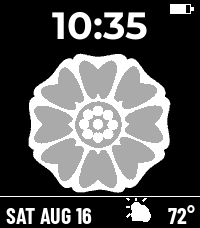
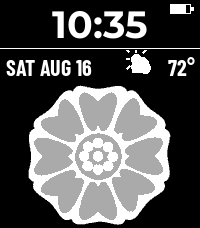
Move the date and weather into the header too
Putting only the time above the flower fixed the time and handed the same
problem to everything else: a timeline peek covers the bottom band for as
long as it is up, and the strip down there is the day, date and weather.

So the header now carries all of it -- time, a hairline, then the day,
date and weather in one row -- and the flower fills everything below.
The flower is what the peek covers instead, which costs nothing: it is
the same flower it was a second ago, and half of it still reads as the
tile.

The status icons already had the room. The battery keeps the right
corner and bluetooth the left, with the centred time 18px clear of each
at its widest, so the info row is the full width the strip used to be and
the date has the same 116px it always had.

Header and art fill the 228 exactly, 82 + 146, so the header cannot grow
without regenerating the art shorter. tools/mockup.py checks that, plus
the info row's end against the top of the art.

Screenshots in screenshots/ are the emulator with
`pebble emu-set-timeline-quick-view on`: before-quickview shows the old
layout with the time cut in half, header-quickview shows the peek landing
on the flower with everything else still readable.

Claude-Session: https://claude.ai/code/session_01X5gF5P6zNmFWki7CSijybw

diff --git a/src/c/lotus.c b/src/c/lotus.c
@@ -4,10 +4,10 @@
 
 // White Lotus watchface for emery (Pebble Time 2, 200x228).
 //
-// The whole face is one layer with a single update proc, in three bands: the
-// time across the top, the tile's flower under it as a bitmap, and a strip
-// across the bottom carrying the day, date and weather. Everything is drawn
-// from cached strings so the update proc never formats anything itself.
+// The whole face is one layer with a single update proc, in two blocks: a
+// header carrying the time, the day, the date, the weather and the status
+// icons, and the tile's flower under it as a bitmap. Everything is drawn from
+// cached strings so the update proc never formats anything itself.
 
 // ---------------------------------------------------------------------------
 // LAYOUT -- keep in sync with tools/build_assets.py and tools/mockup.py
@@ -16,43 +16,51 @@
 // Only ART_H matters here: the bitmap is that tall and gets placed at ART_TOP.
 #define ART_H 146
 
-// The time is above the flower, not on it and not below it.
+// Every readable thing is in a header above the flower.
 //
-// Not on it, because the tile's centre is a seed pod of small dots -- the thing
-// that identifies it as the White Lotus tile at all -- so the time there would
-// cover the one part of the artwork worth keeping. Off the flower, the time gets
-// the full screen width instead of a chord across a medallion, which is why it
-// can be this large.
+// A timeline peek slides up from the bottom of the screen and holds a band of it
+// for as long as it is up. Whatever sits down there is hidden for that whole
+// time, so the question is what the face can afford to lose. Not the time, and
+// not the date or the weather either -- they are the reason to look at a
+// watchface at all. The flower can: it is the same flower it was a second ago,
+// and half of it still reads as the tile.
 //
-// Above rather than below, because a timeline peek slides up from the bottom of
-// the screen and covers a band of it for as long as it is up. Whatever sits down
-// there is the thing that gets hidden, and the time is the one item on this face
-// that has to be readable at a glance without dismissing anything first. The
-// date and weather take the hit instead.
+// The time is off the flower rather than on it for a separate reason. The tile's
+// centre is a seed pod of small dots -- the thing that identifies it as the
+// White Lotus tile at all -- so the time there would cover the one part of the
+// artwork worth keeping. Off it, the time gets the full screen width instead of
+// a chord across a medallion, which is why it can be this large.
 #define TIME_LEFT 0
 #define TIME_WIDTH 200
 #define TIME_TOP 0
-#define TIME_HEIGHT 50
+#define TIME_HEIGHT 48
 
-// What is left between the time and the strip's rule is exactly the bitmap:
-// 50 + 146 = 196 = PANEL_TOP. The three bands fill the screen with nothing to
-// spare, so moving any one of them means moving another.
-#define ART_TOP TIME_HEIGHT
+// A hairline parts the time from the row under it. There is no fill behind
+// either: the window's black is already the black the artwork's own ground is
+// drawn in, so there is no seam to hide, and a slab of colour under a
+// black-and-white flower would be the only loud thing on the screen.
+#define RULE_TOP 48
+#define RULE_H 1
+#define RULE_COLOR GColorWhite
 
-// The info strip.
-#define PANEL_TOP 196
-#define PANEL_RULE 1
-#define INFO_TOP 200
+// The day, date and weather, in one row under the rule. The icon rides 2px
+// higher than the text so their optical centres line up.
+#define ICON_TOP 50
+#define INFO_TOP 52
 #define INFO_HEIGHT 26
 #define EDGE_PAD 6
+
+// The flower gets whatever the header does not, and ART_H is fixed, so this is
+// forced: 82 + 146 = 228, the whole screen, with nothing spare in either
+// direction. Growing the header means regenerating the art shorter.
+#define ART_TOP 82
 // Frame size in resources/images/weather_icons.png. ICON_W must stay a
 // multiple of 8 so the sub-bitmap lands on a byte boundary.
 #define ICON_W 32
 #define ICON_H 28
 #define ICON_GAP 2
-#define ICON_TOP 198
 // Width reserved for the temperature, enough for "100°". What is left of the
-// strip after the icon and this goes to the date, which is why the info font is
+// row after the icon and this goes to the date, which is why the info font is
 // condensed. tools/mockup.py prints both.
 #define INFO_TEMP_W 36
 
@@ -62,12 +70,7 @@
 #define BATT_TOP 4
 #define BT_W 12
 
-// The tile is black and white, so the whole face is. The strip has no fill of
-// its own -- a hairline rule is enough to part the date from the time, and a
-// slab of colour under a black-and-white flower would be the only loud thing on
-// the screen.
-#define PANEL_BG GColorBlack
-#define PANEL_RULE_COLOR GColorWhite
+// The tile is black and white, so the whole face is.
 #define INFO_COLOR GColorWhite
 #define TIME_COLOR GColorWhite
 #define STATUS_COLOR GColorWhite
@@ -141,10 +144,9 @@ static void prv_set_weather_icon(int index) {
   }
 }
 
-// The status icons share the top band with the time: bluetooth in the left
-// corner, battery in the right, the time centred between them. At its widest --
-// "23:58" -- the time is 103px of the 200, so there is room on both sides;
-// tools/mockup.py checks both gaps.
+// The status icons take the two top corners, with the time centred between them.
+// At its widest -- "23:58" -- the time is 103px of the 200, so there is room on
+// both sides; tools/mockup.py checks both gaps.
 static void prv_draw_battery(GContext *ctx, GRect bounds) {
   const int x = bounds.size.w - BATT_RIGHT_PAD - BATT_W - 3;  // 3px for the nub
 
@@ -190,10 +192,10 @@ static void prv_draw_bluetooth(GContext *ctx, GRect bounds) {
 static void prv_canvas_update(Layer *layer, GContext *ctx) {
   const GRect bounds = layer_get_bounds(layer);
 
-  // The flower. The bitmap is only the ART_H band under the time; the window's
-  // black background carries the rest, which is the same black the artwork's own
-  // ground is drawn in, so there is no seam to hide -- including the band the
-  // time is drawn into, which is why that band needs no fill of its own.
+  // The flower. The bitmap is only the ART_H band below the header; the window's
+  // black background carries the header, which is the same black the artwork's
+  // own ground is drawn in, so there is no seam to hide and the header needs no
+  // fill of its own.
   if (s_tile) {
     graphics_context_set_compositing_mode(ctx, GCompOpAssign);
     graphics_draw_bitmap_in_rect(ctx, s_tile, GRect(0, ART_TOP, bounds.size.w, ART_H));
@@ -202,12 +204,8 @@ static void prv_canvas_update(Layer *layer, GContext *ctx) {
   prv_draw_battery(ctx, bounds);
   prv_draw_bluetooth(ctx, bounds);
 
-  // Info strip.
-  graphics_context_set_fill_color(ctx, PANEL_BG);
-  graphics_fill_rect(ctx, GRect(0, PANEL_TOP, bounds.size.w, bounds.size.h - PANEL_TOP), 0,
-                     GCornerNone);
-  graphics_context_set_fill_color(ctx, PANEL_RULE_COLOR);
-  graphics_fill_rect(ctx, GRect(0, PANEL_TOP, bounds.size.w, PANEL_RULE), 0, GCornerNone);
+  graphics_context_set_fill_color(ctx, RULE_COLOR);
+  graphics_fill_rect(ctx, GRect(0, RULE_TOP, bounds.size.w, RULE_H), 0, GCornerNone);
 
   graphics_context_set_text_color(ctx, TIME_COLOR);
   graphics_draw_text(ctx, s_time_text, s_time_font,

diff --git a/tools/mockup.py b/tools/mockup.py
@@ -8,10 +8,10 @@ the places where the layout can silently overflow:
   * the time against its band. It has the full screen width now that it sits
     off the flower rather than inside the tile's seed pod, so the binding
     constraint is the band's height, not its width.
-  * the time against the status icons, which share the top band with it now
-    that the time is up there.
-  * the date against what the strip leaves it once the weather has taken the
+  * the time against the status icons, which share the top row with it.
+  * the date against what the info row leaves it once the weather has taken the
     right-hand end.
+  * the header against the flower, which has to fit in what is left of the 228.
 
 Each is reported with its slack, and the script exits non-zero if any has run
 out -- so this is worth running after any change to a font size, to ART_H, or to
@@ -35,14 +35,15 @@ FONTS = os.path.join(ROOT, "resources", "fonts")
 SCREEN_W, SCREEN_H = 200, 228
 TIME_SIZE = 38
 TIME_TOP = 0
-TIME_HEIGHT = 50
-ART_TOP = TIME_HEIGHT
+TIME_HEIGHT = 48
+RULE_TOP = 48
+RULE_H = 1
 INFO_SIZE = 22
-PANEL_TOP = 196
-PANEL_RULE = 1
-INFO_TOP = 200
+INFO_TOP = 52
+INFO_HEIGHT = 26
+ART_TOP = 82
 EDGE_PAD = 6
-ICON_W, ICON_H, ICON_GAP, ICON_TOP = 32, 28, 2, 198
+ICON_W, ICON_H, ICON_GAP, ICON_TOP = 32, 28, 2, 50
 INFO_TEMP_W = 36
 BATT_W, BATT_H, BATT_RIGHT_PAD, BATT_TOP, BT_W = 21, 10, 6, 4, 12
 
@@ -68,7 +69,7 @@ def draw_face(time_text, date_text, temp_text, icon_index):
     face.paste(ba.tile(), (0, ART_TOP))
     d = ImageDraw.Draw(face)
 
-    d.rectangle([0, PANEL_TOP, SCREEN_W, PANEL_TOP + PANEL_RULE - 1], fill=WHITE)
+    d.rectangle([0, RULE_TOP, SCREEN_W, RULE_TOP + RULE_H - 1], fill=WHITE)
 
     # The battery, because it is the thing the time is now closest to.
     bx = SCREEN_W - BATT_RIGHT_PAD - BATT_W - 3
@@ -120,18 +121,24 @@ def check():
         if slack < 0:
             ok = False
 
-    # The three bands fill the screen exactly: the flower has to start where the
-    # time band ends and stop before the strip's rule.
-    print("band  time %d..%d  art %d..%d  strip at %d  slack %+3d"
-          % (TIME_TOP, TIME_TOP + TIME_HEIGHT, ART_TOP, ART_TOP + ba.ART_H, PANEL_TOP,
-             PANEL_TOP - ART_TOP - ba.ART_H))
-    if TIME_TOP + TIME_HEIGHT > ART_TOP or ART_TOP + ba.ART_H > PANEL_TOP:
+    # The header and the flower fill the screen exactly: the info row has to end
+    # before the art starts, and the art has to end before the screen does.
+    info_bottom = max(INFO_TOP + INFO_HEIGHT, ICON_TOP + ICON_H)
+    print("head  time %d..%d  rule %d  info %d..%d  art at %d  slack %+3d"
+          % (TIME_TOP, TIME_TOP + TIME_HEIGHT, RULE_TOP, INFO_TOP, info_bottom, ART_TOP,
+             ART_TOP - info_bottom))
+    if TIME_TOP + TIME_HEIGHT > RULE_TOP or info_bottom > ART_TOP:
+        ok = False
+
+    print("art   %d..%d  screen %d  slack %+3d"
+          % (ART_TOP, ART_TOP + ba.ART_H, SCREEN_H, SCREEN_H - ART_TOP - ba.ART_H))
+    if ART_TOP + ba.ART_H > SCREEN_H:
         ok = False
 
     icon_x = SCREEN_W - EDGE_PAD - INFO_TEMP_W - ICON_GAP - ICON_W
     room = icon_x - EDGE_PAD - ICON_GAP
     w, _ = text_size(info_font, WIDEST_DATE)
-    print("date  %-11s %3d  in strip %3d  slack %+3d" % (WIDEST_DATE, w, room, room - w))
+    print("date  %-11s %3d  in row   %3d  slack %+3d" % (WIDEST_DATE, w, room, room - w))
     if w > room:
         ok = False
 

diff --git a/README.md b/README.md
@@ -2,8 +2,8 @@
 
 A Pebble Time 2 watchface built around the White Lotus tile from *Avatar: The
 Last Airbender* — the Pai Sho tile the Order of the White Lotus uses as its
-sign. The time runs across the top, the flower fills the middle, and a strip
-across the bottom carries the day, date and weather.
+sign. The time, day, date and weather sit in a header across the top, and the
+flower fills everything below it.
 
 ![preview](preview.png)
 
@@ -60,35 +60,42 @@ Two things about the source are worth knowing before touching
 
 ## Layout
 
-Everything is drawn by one update proc in `src/c/lotus.c`, in three bands: the
-time down to y=50, the flower bitmap from there to y=196, and the strip from
-y=196. The `LAYOUT` block at the top of that file has every coordinate.
+Everything is drawn by one update proc in `src/c/lotus.c`, in two blocks: a
+header down to y=82 — the time, a hairline, then the day, date and weather in
+one row — and the flower bitmap filling y=82 to the bottom. The `LAYOUT` block
+at the top of that file has every coordinate.
 
-The time is **off** the flower, not on it. The tile's centre is the seed pod —
-the single feature that identifies it as the White Lotus tile at all — so
-putting the time there would mean drawing over the one part of the artwork worth
-having. In exchange the time gets the full screen width instead of a chord
-across the middle of a disc, which is why it can be 38px.
+Every readable thing is in the header because **a timeline peek slides up from
+the bottom of the screen** and holds a band of it for as long as it is up.
+Whatever is down there is hidden for that whole time. The face used to put the
+time at the bottom, and every notification cut it in half
+(`screenshots/before-quickview.png`); moving only the time up would have handed
+the same problem to the date and weather. So the flower takes the hit instead —
+it is the same flower it was a second ago, and half of it still reads as the
+tile.
 
-It is **above** the flower rather than below it because a timeline peek slides
-up from the bottom of the screen and holds a band of it for as long as it is up.
-With the time down there the peek cut it in half; the strip takes the hit
-instead, and losing the date and weather for a few seconds costs nothing.
+The time is **off** the flower, not on it, for a separate reason. The tile's
+centre is the seed pod — the single feature that identifies it as the White
+Lotus tile at all — so putting the time there would mean drawing over the one
+part of the artwork worth having. In exchange the time gets the full screen
+width instead of a chord across the middle of a disc, which is why it can be
+38px.
 
-The three bands fill the 228px exactly — 50 + 146 + 32 — so there is no slack to
-move one without moving another. The status icons share the top band with the
-time: bluetooth in the left corner, battery in the right, the time centred
-between them with 18px to spare on each side at its widest.
+The header and the art fill the 228px exactly — 82 + 146 — so growing the header
+means regenerating the art shorter. The status icons take the two top corners,
+with the time centred between them and 18px to spare on each side at its
+widest.
 
 `tools/mockup.py` measures the fits that can silently overflow and exits
 non-zero if any slack goes negative, so run it after changing a font size,
 `ART_H`, or `INFO_TEMP_W`:
 
 ```
-time  23:58  103x29  in band 200x50  slack +97 wide +21 tall
+time  23:58  103x29  in band 200x48  slack +97 wide +19 tall
 stat  23:58   48..151 between icons 18 and 170  slack +18
-band  time 0..50  art 50..196  strip at 196  slack  +0
-date  WED SEPT 30 104  in strip 116  slack +12
+head  time 0..48  rule 48  info 52..78  art at 82  slack  +4
+art   82..228  screen 228  slack  +0
+date  WED SEPT 30 104  in row   116  slack +12
 temp  100°         34  in  36       slack  +2
 ```
 
@@ -126,6 +133,10 @@ Pebble app (Devices → ⋯ → Enable Dev Connect, sign in with GitHub), then
 `pebble install --emulator` does not switch the running emulator to a newly
 installed watchface — it will keep showing whichever face it was already on.
 `pebble kill` first if the screenshot looks like somebody else's watchface.
+
+`pebble emu-set-timeline-quick-view on` raises a peek in the emulator, which is
+how the screenshots in `screenshots/` were taken — it is the quickest way to
+check that a layout change has not put something back under it.
 
 Only `emery` (Pebble Time 2) is in `targetPlatforms`. The artwork and the layout
 are both sized for 200x228; adding another platform means regenerating the art
